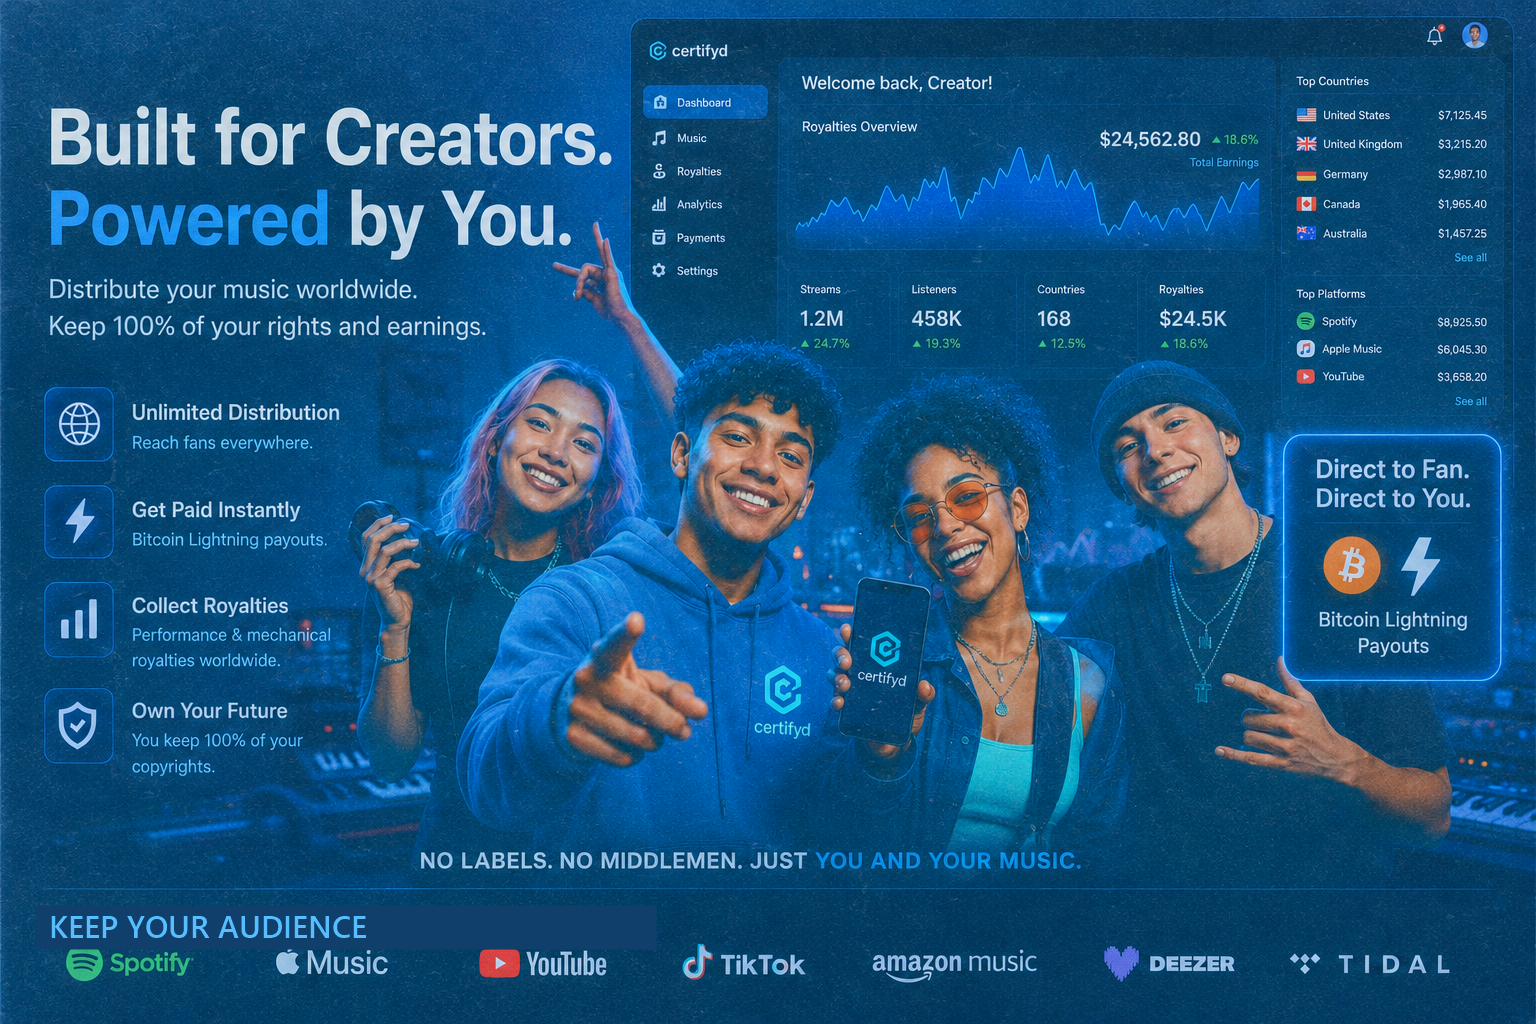
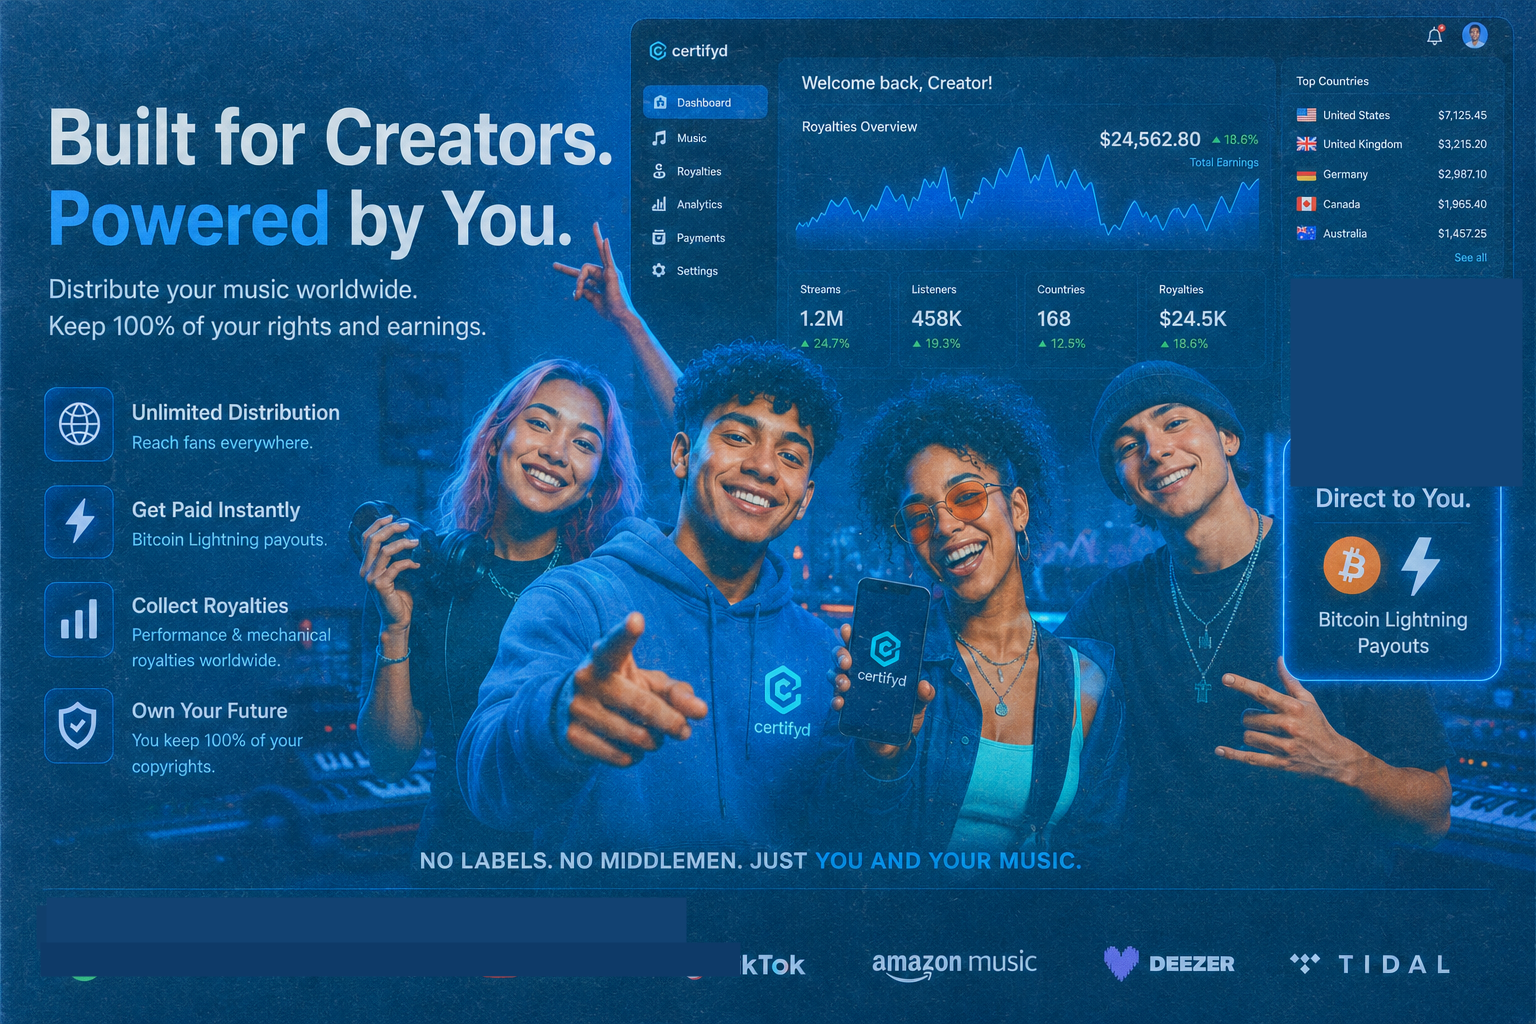
fix(image): remove audience/platform labels and top-platform panel from final card art

diff --git a/index.html b/index.html
@@ -1353,15 +1353,6 @@ section[id]{
       line-height:1;
     }
     .ownership-media-card{ padding:12px; }
-    .platform-logos-strip{
-      margin-top:12px;
-      --media-zoom:1;
-      --media-pos:center center;
-      aspect-ratio:16 / 1.55;
-    }
-    .platform-logos-strip img{
-      border:0;
-    }
     .flow-section{
       padding-top:var(--space-section);
       padding-bottom:var(--space-section);
@@ -2544,9 +2535,6 @@ section[id]{
           <a class="shot-card card-media" style="--media-zoom:1; --media-pos:center 50%;" href="#shot-how" aria-label="Open payment confirmation screenshot">
             <img src="images/screenshots/one-payment-last-20260601-keep-audience.png?v=20260601a" alt="Mobile payment confirmation showing sats received via Lightning" />
           </a>
-          <div class="platform-logos-strip card-media" aria-label="Available platforms">
-            <img src="images/screenshots/platform-logos-strip-20260601.png?v=20260601b" alt="Spotify, Apple Music, YouTube, TikTok, Amazon Music, Deezer, and Tidal" loading="lazy" decoding="async" />
-          </div>
         </div>
       </div>
     </section>
